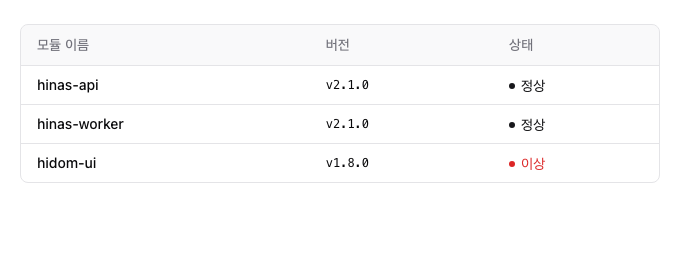
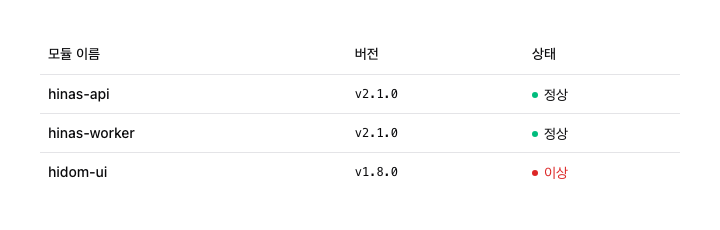
fix(365): 카탈로그 렌더 슬롯 정합 — 원형(hover)=순정 shadcn 재구성, 365(기본)=내장 조정판. 테이블 365 렌더 갱신(재렌더 해소), Ready 배경 제거(정상과 차별화)

diff --git a/playground/app/shadcn-preview/data-table/page.tsx b/playground/app/shadcn-preview/data-table/page.tsx
@@ -1,6 +1,6 @@
 "use client";
 
-// data-table 스톡 렌더 캡처용 — 내장 아웃라인·muted 헤더·흐린 헤더 폰트 + 상태 색 쌍 예시
+// data-table 렌더 캡처 — 상단: 순정 shadcn 원형(내장 조정을 CSS로 되돌린 재구성) / 하단: 365 조정판(컴포넌트 내장 룩)
 import * as React from "react";
 import {
   Table,
@@ -17,43 +17,63 @@ const ROWS = [
   { name: "hidom-ui", ver: "v1.8.0", status: "이상", tone: "bad" },
 ];
 
+function Rows() {
+  return (
+    <TableBody>
+      {ROWS.map((r) => (
+        <TableRow key={r.name}>
+          <TableCell className="font-medium">{r.name}</TableCell>
+          <TableCell className="font-mono text-xs">{r.ver}</TableCell>
+          <TableCell>
+            <span
+              className={
+                "inline-flex items-center gap-1.5 text-sm " +
+                (r.tone === "bad" ? "text-destructive" : "text-foreground")
+              }
+            >
+              <span
+                className={
+                  "size-1.5 rounded-full " +
+                  (r.tone === "bad" ? "bg-destructive" : "bg-emerald-500")
+                }
+              />
+              {r.status}
+            </span>
+          </TableCell>
+        </TableRow>
+      ))}
+    </TableBody>
+  );
+}
+
+function Head() {
+  return (
+    <TableHeader>
+      <TableRow>
+        <TableHead>모듈 이름</TableHead>
+        <TableHead>버전</TableHead>
+        <TableHead>상태</TableHead>
+      </TableRow>
+    </TableHeader>
+  );
+}
+
 export default function Page() {
   return (
-    <div className="flex h-screen items-start justify-center bg-white pt-16">
+    <div className="flex h-screen flex-col items-center justify-start gap-24 bg-white pt-16">
       <style>{`nextjs-portal { display: none; }`}</style>
+      {/* 순정 shadcn 원형 — 내장 조정(테두리·헤더 배경·패딩·헤더 색) 되돌림 */}
+      <div className="w-[640px] [&>div]:rounded-none [&>div]:border-0 [&_thead]:bg-transparent [&_th]:text-foreground [&_th]:px-2 [&_td]:px-2">
+        <Table>
+          <Head />
+          <Rows />
+        </Table>
+      </div>
+      {/* 365 조정판 — 컴포넌트 내장 룩 그대로 */}
       <div className="w-[640px]">
         <Table>
-          <TableHeader>
-            <TableRow>
-              <TableHead>모듈 이름</TableHead>
-              <TableHead>버전</TableHead>
-              <TableHead>상태</TableHead>
-            </TableRow>
-          </TableHeader>
-          <TableBody>
-            {ROWS.map((r) => (
-              <TableRow key={r.name}>
-                <TableCell className="font-medium">{r.name}</TableCell>
-                <TableCell className="font-mono text-xs">{r.ver}</TableCell>
-                <TableCell>
-                  <span
-                    className={
-                      "inline-flex items-center gap-1.5 text-sm " +
-                      (r.tone === "bad" ? "text-destructive" : "text-foreground")
-                    }
-                  >
-                    <span
-                      className={
-                        "size-1.5 rounded-full " +
-                        (r.tone === "bad" ? "bg-destructive" : "bg-primary")
-                      }
-                    />
-                    {r.status}
-                  </span>
-                </TableCell>
-              </TableRow>
-            ))}
-          </TableBody>
+          <Head />
+          <Rows />
         </Table>
       </div>
     </div>

diff --git a/playground/app/shadcn-preview/data-status/page.tsx b/playground/app/shadcn-preview/data-status/page.tsx
@@ -33,7 +33,7 @@ export default function Page() {
         <span className="rounded-full bg-muted px-2.5 py-0.5 text-xs font-medium text-muted-foreground">
           COMPLETED
         </span>
-        <span className="inline-flex items-center gap-1.5 rounded-full bg-muted px-2.5 py-0.5 text-sm">
+        <span className="inline-flex items-center gap-1.5 px-2.5 py-0.5 text-sm">
           <span className="size-1.5 rounded-full bg-emerald-500" /> Ready
         </span>
       </div>
